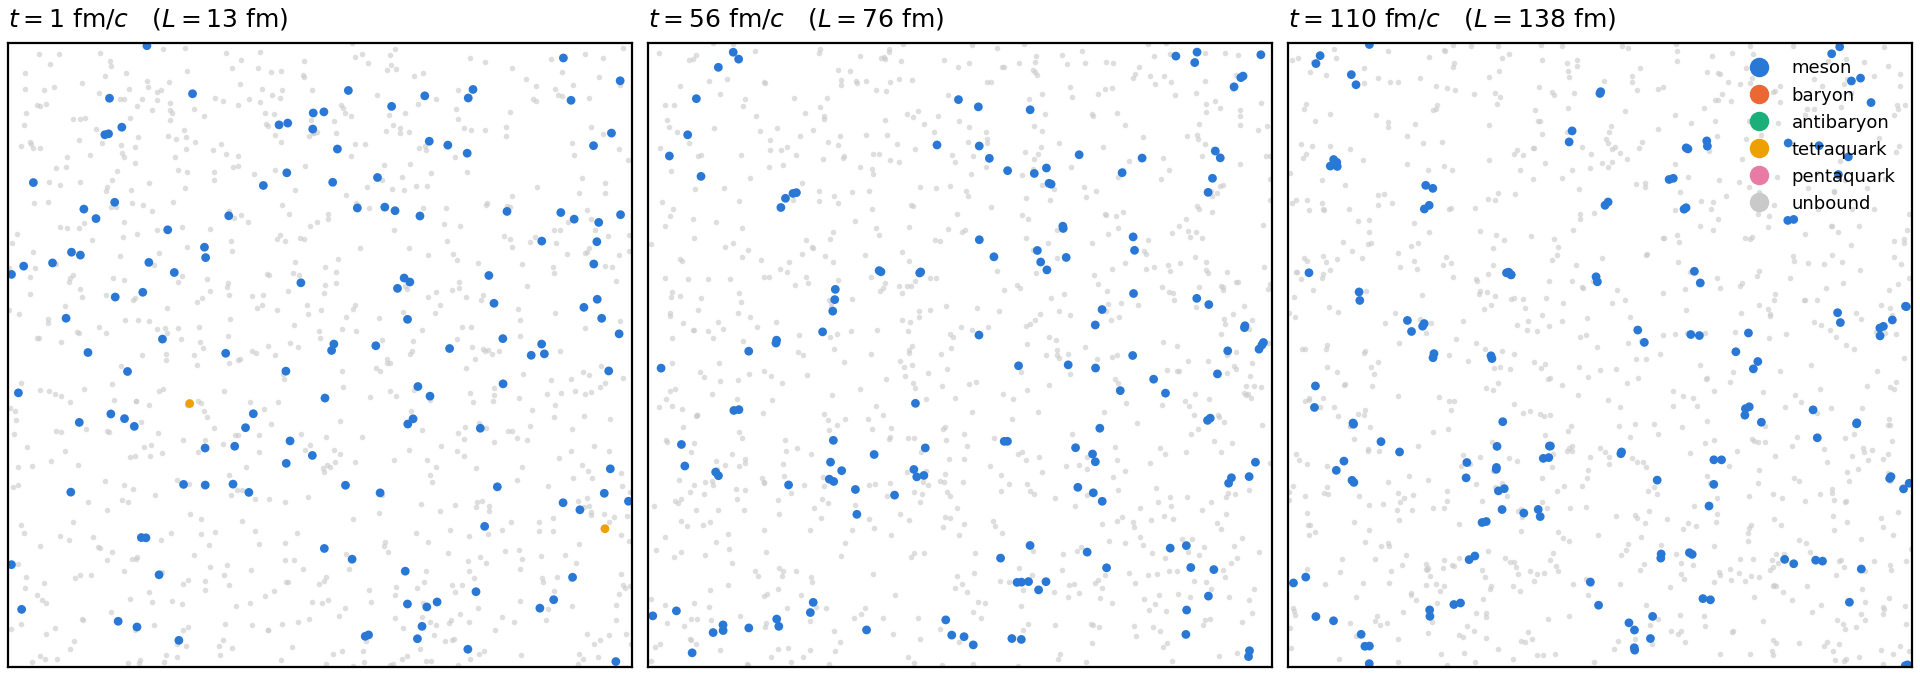
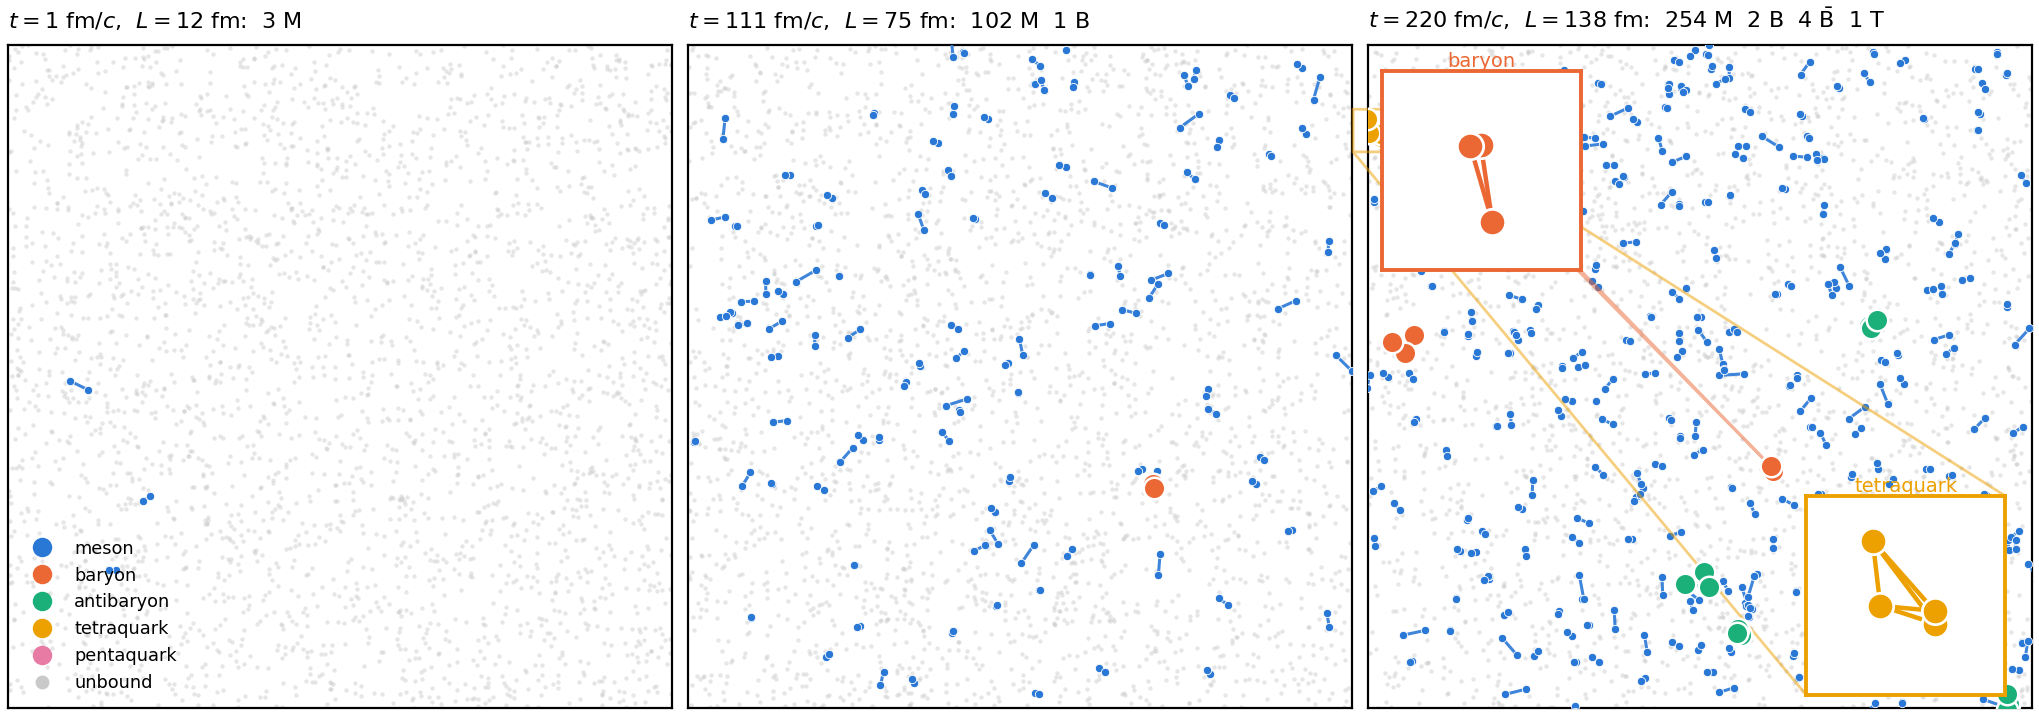
Expressive Fig 3: corner event, assembly bonds, species insets
Full-box projection with color-on-assembly (cut scales with comoving
lambda_D - fixed-cut version hid late wide clusters), min-image
recentering (fixes PBC spaghetti in insets), compact count labels;
render event: corner alpha_s=0.6 seed 4 (13 baryon histories,
dq-first 0.92)

Claude-Session: https://claude.ai/code/session_01Q1aNy4k6uAz81qnbnS9jy4

diff --git a/scripts/render_snapshots.py b/scripts/render_snapshots.py
@@ -27,11 +27,26 @@ SPECIES_COLORS = {
 }
 RARE = {"baryon", "antibaryon", "tetraquark", "pentaquark", "antipentaquark"}
 FREE = "#c9c9c9"
-BOND_CUT = 1.5  # fm: draw a bond once members are this close
+# a cluster counts as assembled once all pairs are within ~1.2 lambda_D(t):
+# late captures are wide (comoving screening), so the cut must scale with a(t)
+def bond_cut(lam_d0, h0, t):
+    return 1.2 * lam_d0 * (1.0 + h0 * t)
+ABBREV = {"meson": "M", "baryon": "B", "antibaryon": r"$\bar{\rm B}$",
+          "tetraquark": "T", "pentaquark": "P", "antipentaquark": r"$\bar{\rm P}$"}
+
+
+def recenter(pts, L):
+    """Minimum-image recentering of cluster members about the first one."""
+    ref = pts[0]
+    d = pts - ref
+    d -= L * np.round(d / L)
+    return ref + d
 
 
 def main(path):
     with h5py.File(path) as f:
+        cfg = json.loads(f.attrs["config_json"])
+        lam_d0, h0 = float(cfg["lam_d0"]), float(cfg["h0"])
         keys = sorted(f["snapshots"].keys())
         picks = [keys[0], keys[len(keys) // 2], keys[-1]]
         snaps = []
@@ -59,30 +74,36 @@ def main(path):
             pts = np.array([pos[i] for i in mem if i in pos])
             if len(pts) == 0:
                 continue
-            # bonds between close members (skip PBC-wrapped pairs)
-            drawn = False
+            pts = recenter(pts, L)
+            sep = max(np.linalg.norm(pts[a] - pts[b])
+                      for a in range(len(pts)) for b in range(a + 1, len(pts)))
+            assembled = sep < bond_cut(lam_d0, h0, t)
+            if not assembled:
+                # not yet a hadron: indistinguishable from the free gas
+                ax.scatter(pts[:, 0] % L, pts[:, 1] % L, s=2.5, c=FREE,
+                           linewidths=0, alpha=0.45)
+                continue
             for a in range(len(pts)):
                 for b in range(a + 1, len(pts)):
-                    d = np.linalg.norm(pts[a] - pts[b])
-                    if d < BOND_CUT:
-                        ax.plot([pts[a, 0], pts[b, 0]],
-                                [pts[a, 1], pts[b, 1]],
-                                color=col, lw=1.1, alpha=0.9, zorder=3)
-                        drawn = True
+                    ax.plot(pts[[a, b], 0], pts[[a, b], 1],
+                            color=col, lw=1.1, alpha=0.9, zorder=3)
             big = species in RARE
             ax.scatter(pts[:, 0], pts[:, 1],
-                       s=(46 if big else 11), c=col, linewidths=(0.9 if big else 0.4),
+                       s=(60 if big else 9), c=col,
+                       linewidths=(0.9 if big else 0.3),
                        edgecolors="white", zorder=(5 if big else 4))
-            if drawn or panel == 2:
-                counts[species] = counts.get(species, 0) + 1
+            counts[species] = counts.get(species, 0) + 1
 
         ax.set_xlim(0, L)
         ax.set_ylim(0, L)
         ax.set_aspect("equal")
         ax.set_xticks([])
         ax.set_yticks([])
-        label = "   ".join(f"{v} {k}" for k, v in sorted(counts.items()))
-        ax.set_title(f"$t={t:.0f}$ fm/$c$,  $L={L:.0f}$ fm\n{label}",
+        order = ["meson", "baryon", "antibaryon", "tetraquark",
+                 "pentaquark", "antipentaquark"]
+        label = "  ".join(f"{counts[k]} {ABBREV[k]}" for k in order
+                          if k in counts)
+        ax.set_title(f"$t={t:.0f}$ fm/$c$,  $L={L:.0f}$ fm:  {label}",
                      fontsize=8, loc="left")
 
     # zoom insets on the final panel: one baryon, one largest exotic
@@ -90,11 +111,15 @@ def main(path):
     pos = {int(i): x[k] for k, i in enumerate(idx)}
     ax = axes[2]
 
-    def add_inset(mem, species, loc, w=1.6):
+    def add_inset(mem, species, loc):
         pts = np.array([pos[i] for i in mem if i in pos])
         if len(pts) == 0:
             return
+        pts = recenter(pts, snaps[-1][1])
         c = pts.mean(axis=0)
+        sep = max(np.linalg.norm(pts[a] - pts[b])
+                  for a in range(len(pts)) for b in range(a + 1, len(pts)))
+        w = 0.75 * sep + 0.5
         col = SPECIES_COLORS.get(species, "#008300")
         axi = ax.inset_axes(loc)
         axi.scatter(pts[:, 0], pts[:, 1], s=90, c=col, edgecolors="white",
@@ -110,9 +135,19 @@ def main(path):
         axi.set_title(species, fontsize=7, color=col, pad=1.5)
         ax.indicate_inset_zoom(axi, edgecolor=col, lw=1.0)
 
-    baryons = [(m, s) for m, s in clusters if s in ("baryon", "antibaryon")]
-    exotics = sorted((c for c in clusters if len(c[0]) >= 4),
-                     key=lambda c: -len(c[0]))
+    def final_sep(mem):
+        pts = recenter(np.array([pos[i] for i in mem if i in pos]),
+                       snaps[-1][1])
+        return max(np.linalg.norm(pts[a] - pts[b])
+                   for a in range(len(pts)) for b in range(a + 1, len(pts)))
+
+    cut_f = bond_cut(lam_d0, h0, snaps[-1][0])
+    baryons = sorted(((m, s) for m, s in clusters
+                      if s in ("baryon", "antibaryon") and final_sep(m) < cut_f),
+                     key=lambda c: final_sep(c[0]))
+    exotics = sorted((c for c in clusters
+                      if len(c[0]) >= 4 and final_sep(c[0]) < cut_f),
+                     key=lambda c: (-len(c[0]), final_sep(c[0])))
     if baryons:
         add_inset(*baryons[0], loc=[0.02, 0.66, 0.30, 0.30])
     if exotics:

diff --git a/paper/sections/s04_classical_results.tex b/paper/sections/s04_classical_results.tex
@@ -97,11 +97,14 @@ freeze-out.
 
 \begin{figure*}[t]
 \includegraphics[width=\textwidth]{figs/fig3_render.pdf}
-\caption{Central slab of one $N=3000$ event at three times (comoving
-view; the box grows from $L=13$ to $138\fm$), particles colored by the
-species they eventually join.  Eventual meson partners are spatially
-uncorrelated at $t=1\fm/c$ and appear as resolved tight pairs by
-freeze-out.}
+\caption{One strong-coupling event ($\alpha_s=0.6$, $H_0=0.05\,c/\fm$,
+$N=3024$) at three times, full-box projection.  Members of eventual
+clusters are colored and bonded once the cluster has assembled
+(all pair separations within $1.2\,\lambda_D(t)$); everything else is
+gray.  The plasma at $t=1\fm/c$ carries almost no assembled structure;
+mesons condense as bonded pairs through mid-evolution; the final panel
+shows the populated state with per-snapshot assembled counts, and
+insets zoom a three-quark baryon and a four-body tetraquark.}
 \label{fig:render}
 \end{figure*}
 